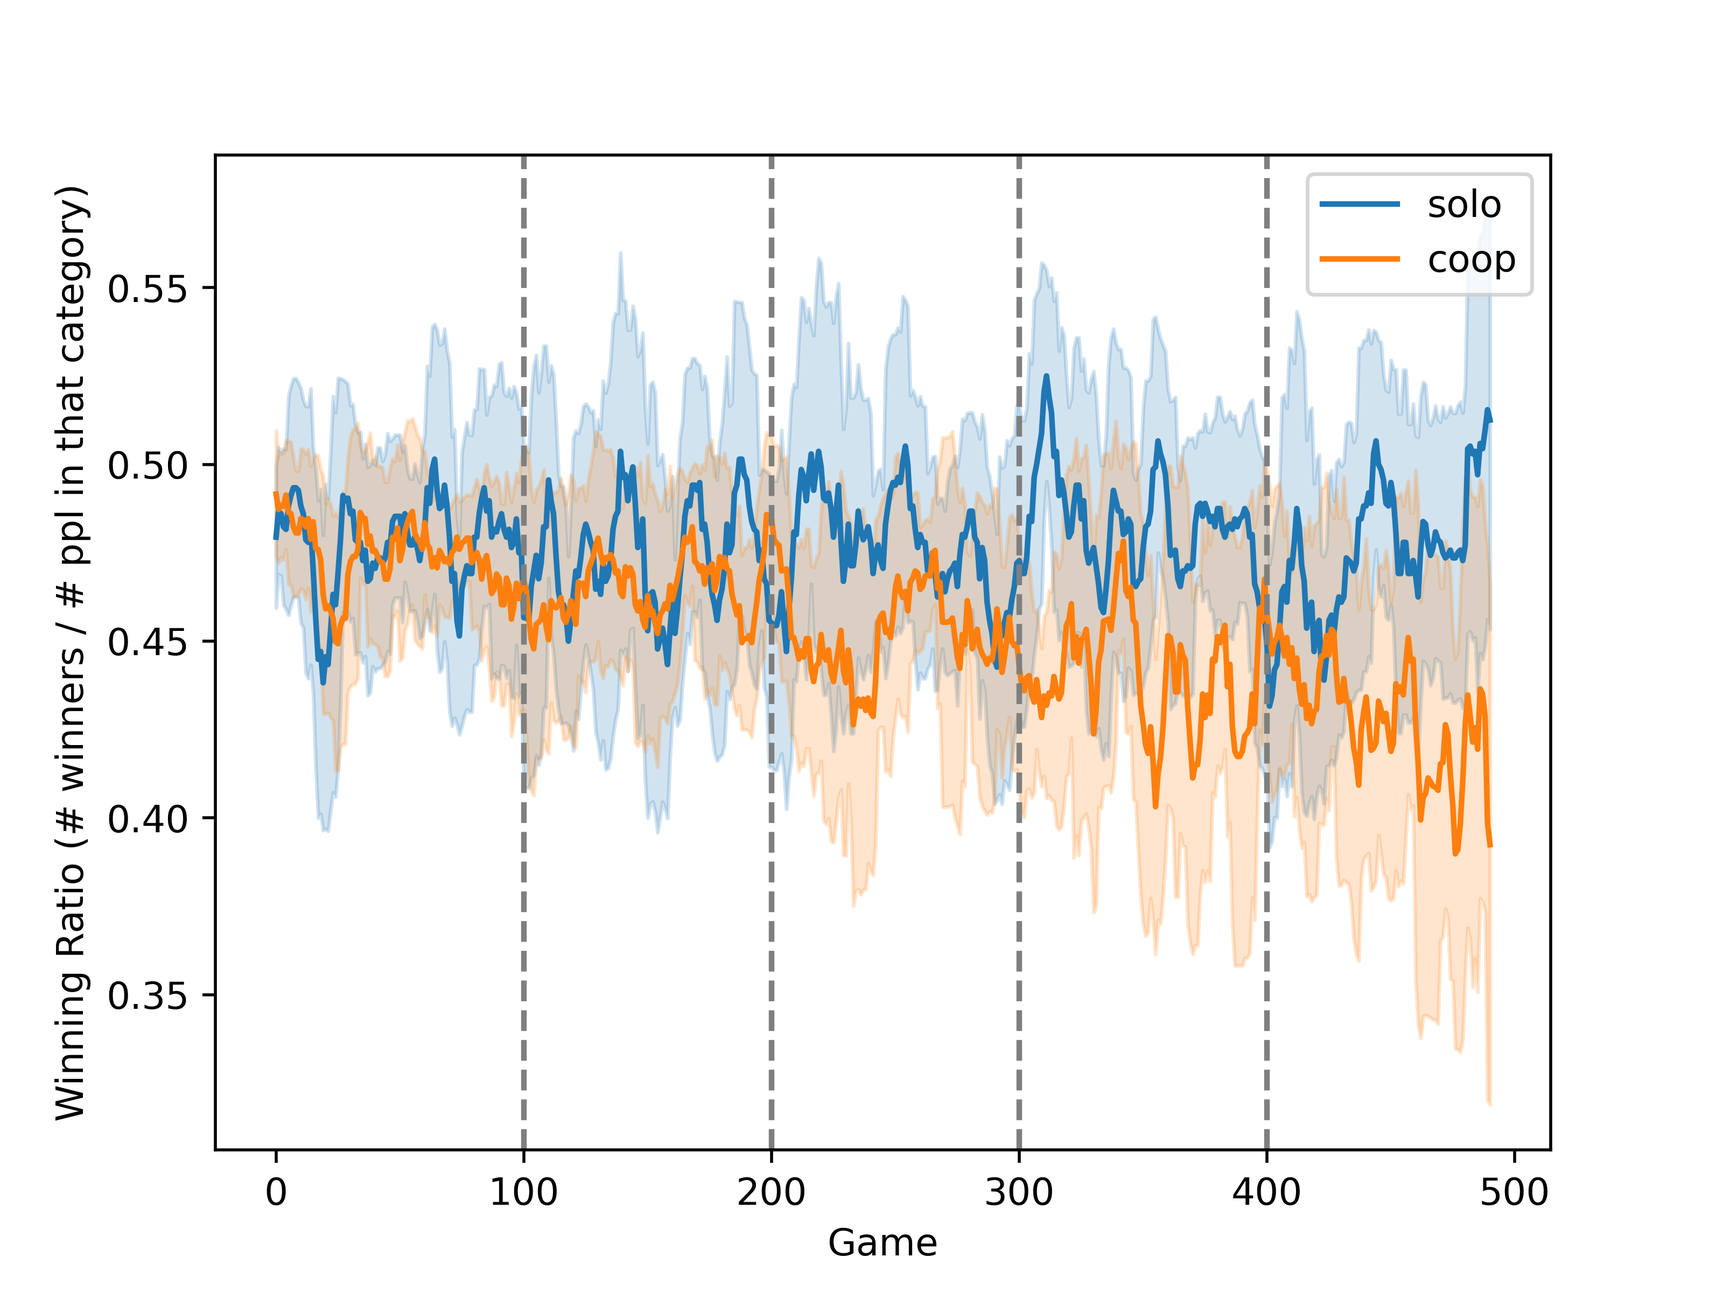
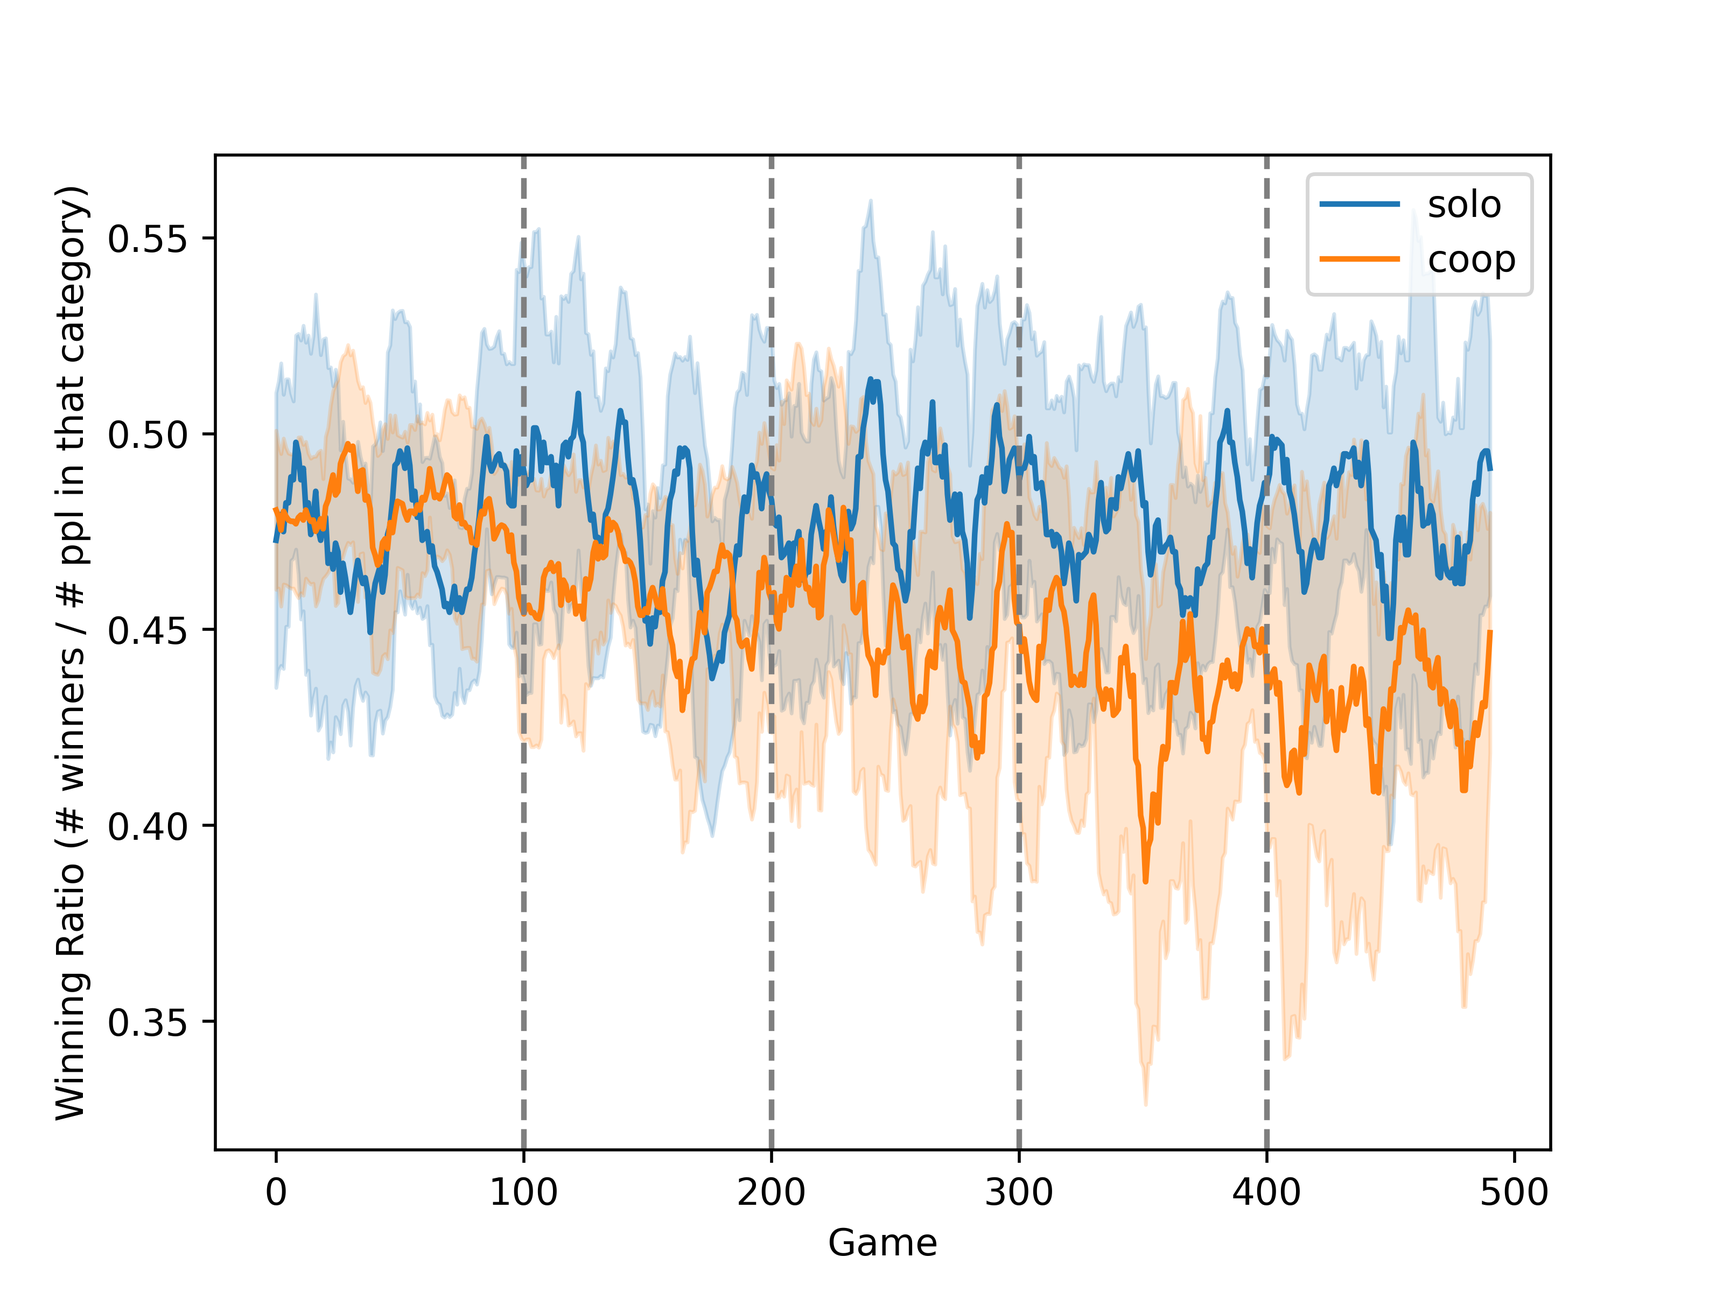
update network game 4

diff --git a/main.py b/main.py
@@ -3,18 +3,17 @@ from experiments import *
 
 def main():
     T = 500
-    N = 481
     # # 1) Varying Brain Size per Minority Games by Yeung and Zhang
     # print("Experiment 1:")
-    # game = vary_brain_size(T = T, N = N, brain_size = 8, num_strategies = 4, seed = 123)
-    # utils.plot_games_result(game, ylim_lower = 0, ylim_upper= N, fig_dir= 'figures/exp_1_game_result.png')
+    # game = vary_brain_size(T = T, N = 449, brain_size = 8, num_strategies = 4, seed = 123)
+    # utils.plot_games_result(game, ylim_lower = 0, ylim_upper= 449, fig_dir= 'figures/exp1_game_result.png')
 
     # # 2) Propagate All Strategies - Network Minority Game
     # print("Experiment 2:")
     # time_step = [i for i in range(T//5, T, T//5)]
-    # game = propagate_strategies_network(aggregate_mode = "all", T = T, N = N, brain_size = 8, num_strategies = 4, 
+    # game = propagate_strategies_network(aggregate_mode = "all", T = T, N = 449, brain_size = 8, num_strategies = 4, 
     #                     p = 0.0025, seed = 64, time_step = time_step, fig_dir= 'figures/exp2_network_plot.png')
-    # utils.plot_network_games_result(game, ylim_lower = 0, ylim_upper= N, fig_dir= 'figures/exp2_game_result.png')
+    # utils.plot_network_games_result(game, ylim_lower = 0, ylim_upper= 449, fig_dir= 'figures/exp2_game_result.png')
     # utils.plot_coop_solo(game, fig_dir='figures/exp2_winning_ratio.png')
 
     # # 3) Propagate All Strategies - Disconnected Minority Game (10 Groups)
@@ -25,26 +24,26 @@ def main():
     # time_step = [i for i in range(T//5, T, T//5)]
     # game = propagate_strategies_disconnected_network_10(aggregate_mode = "all", T = T, N = 451, brain_size = 8, num_strategies = 4, 
     #                     seed = 64, time_step = time_step, fig_dir= 'figures/exp3_network_plot.png')
-    # utils.plot_network_games_result(game, ylim_lower = 0, ylim_upper= N, fig_dir= 'figures/exp3_game_result.png')
+    # utils.plot_network_games_result(game, ylim_lower = 0, ylim_upper= 451, fig_dir= 'figures/exp3_game_result.png')
     # utils.plot_disconnected_groups_10(game, fig_dir='figures/exp3_winning_ratio.png')
 
-    # # 4) Propagate All Strategies - Disconnected Minority Game (5 Groups)
+    # # 4) Propagate All Strategies - Disconnected Minority Game (4 Groups)
     # # If the below code doesn't work, probability to create edges in Erdos-Renyi graph is low. 
     # # p = 0.5 guarantees to create a connected sub-graph, but the trade-off is runtime.
     # # Try to change seed, or increase p in Network.py
     # print("Experiment 4:")
     # time_step = [i for i in range(T//5, T, T//5)]
-    # game = propagate_strategies_disconnected_network_5(aggregate_mode = "all", T = T, N = 481, brain_size = 8, num_strategies = 4, 
+    # game = propagate_strategies_disconnected_network_4(aggregate_mode = "all", T = T, N = 449, brain_size = 8, num_strategies = 4, 
     #                     seed = 64, time_step = time_step, fig_dir= 'figures/exp4_network_plot.png')
-    # utils.plot_network_games_result(game, ylim_lower = 0, ylim_upper= N, fig_dir= 'figures/exp4_game_result.png')
+    # utils.plot_network_games_result(game, ylim_lower = 0, ylim_upper= 449, fig_dir= 'figures/exp4_game_result.png')
     # utils.plot_disconnected_groups_5(game, fig_dir='figures/exp4_winning_ratio.png')
 
     # # 5) Propagate Best Strategies - Network Minority Game
     # print("Experiment 5:")
     # time_step = [i for i in range(T//5, T, T//5)]
-    # game = propagate_strategies_network(aggregate_mode = "best", T = T, N = N, brain_size = 8, num_strategies = 4, 
-    #                     p = 0.005, seed = 64, time_step = time_step, fig_dir= 'figures/exp5_network_plot.png')
-    # utils.plot_network_games_result(game, ylim_lower = 0, ylim_upper= N, fig_dir= 'figures/exp5_game_result.png')
+    # game = propagate_strategies_network(aggregate_mode = "best", T = T, N = 449, brain_size = 8, num_strategies = 4, 
+    #                     p = 0.0025, seed = 64, time_step = time_step, fig_dir= 'figures/exp5_network_plot.png')
+    # utils.plot_network_games_result(game, ylim_lower = 0, ylim_upper= 449, fig_dir= 'figures/exp5_game_result.png')
     # utils.plot_coop_solo(game, fig_dir='figures/exp5_winning_ratio.png')
 
     # # 6) Propagate Best Strategies - Disconnected Minority Game (10 Groups)
@@ -55,60 +54,60 @@ def main():
     # time_step = [i for i in range(T//5, T, T//5)]
     # game = propagate_strategies_disconnected_network_10(aggregate_mode = "best", T = T, N = 451, brain_size = 8, num_strategies = 4, 
     #                     seed = 64, time_step = time_step, fig_dir= 'figures/exp6_network_plot.png')
-    # utils.plot_network_games_result(game, ylim_lower = 0, ylim_upper= N, fig_dir= 'figures/exp6_game_result.png')
+    # utils.plot_network_games_result(game, ylim_lower = 0, ylim_upper= 451, fig_dir= 'figures/exp6_game_result.png')
     # utils.plot_disconnected_groups_10(game, fig_dir= 'figures/exp6_winning_ratio.png')
 
-    # # 7) Propagate Best Strategies - Disconnected Minority Game (5 Groups)
+    # # 7) Propagate Best Strategies - Disconnected Minority Game (4 Groups)
     # # If the below code doesn't work, probability to create edges in Erdos-Renyi graph is low. 
     # # p = 0.5 guarantees to create a connected sub-graph, but the trade-off is runtime.
     # # Try to change seed, or increase p in Network.py
     # print("Experiment 7:")
     # time_step = [i for i in range(T//5, T, T//5)]
-    # game = propagate_strategies_disconnected_network_5(aggregate_mode = "best", T = T, N = 481, brain_size = 8, num_strategies = 4, 
+    # game = propagate_strategies_disconnected_network_4(aggregate_mode = "best", T = T, N = 449, brain_size = 8, num_strategies = 4, 
     #                     seed = 64, time_step = time_step, fig_dir= 'figures/exp7_network_plot.png')
-    # utils.plot_network_games_result(game, ylim_lower = 0, ylim_upper= N, fig_dir= 'figures/exp7_game_result.png')
+    # utils.plot_network_games_result(game, ylim_lower = 0, ylim_upper= 449, fig_dir= 'figures/exp7_game_result.png')
     # utils.plot_disconnected_groups_5(game, fig_dir= 'figures/exp7_winning_ratio.png')
 
     # 8) Propagate All Strategies 100 times - Network Minority Game
     print("Experiment 8:")
     time_step = [i for i in range(T//5, T, T//5)]
-    game, stats = propagate_strategies_network_100_times(aggregate_mode = "all", T = T, N = N, brain_size = 8, num_strategies = 4, 
+    game, stats = propagate_strategies_network_100_times(aggregate_mode = "all", T = T, N = 449, brain_size = 8, num_strategies = 4, 
                         p = 0.0025, seed = 64, time_step = time_step)
     utils.compute_statistics(stats, game.time_step, colors = {'solo': 'tab:blue', 'coop':'tab:orange'}, width_a = 4, width_b = 0.6, fig_dir= 'figures/exp8_boxplot.png')
 
     # 9) Propagate Best Strategies 100 times - Network Minority Game
     print("Experiment 9:")
     time_step = [i for i in range(T//5, T, T//5)]
-    game, stats = propagate_strategies_network_100_times(aggregate_mode = "best", T = T, N = N, brain_size = 8, num_strategies = 4, 
+    game, stats = propagate_strategies_network_100_times(aggregate_mode = "best", T = T, N = 449, brain_size = 8, num_strategies = 4, 
                         p = 0.0025, seed = 64, time_step = time_step)
     utils.compute_statistics(stats, game.time_step, colors = {'solo': 'tab:blue', 'coop':'tab:orange'}, width_a = 4, width_b = 0.6, fig_dir= 'figures/exp9_boxplot.png')
 
-    # 10) Propagate All Strategies 100 times - Disconnected Minority Game (10 Groups)
-    print("Experiment 10:")
-    time_step = [i for i in range(T//5, T, T//5)]
-    game, stats = propagate_strategies_disconnected_network_10_100_times(aggregate_mode = "all", T = T, N = 451, brain_size = 8, num_strategies = 4, 
-                        seed = 64, time_step = time_step)
-    utils.compute_statistics(stats, game.time_step, colors = game.colors, width_a = 6, width_b = 0.5, fig_dir= 'figures/exp10_boxplot.png')
+    # # 10) Propagate All Strategies 100 times - Disconnected Minority Game (10 Groups)
+    # print("Experiment 10:")
+    # time_step = [i for i in range(T//5, T, T//5)]
+    # game, stats = propagate_strategies_disconnected_network_10_100_times(aggregate_mode = "all", T = T, N = 451, brain_size = 8, num_strategies = 4, 
+    #                     seed = 64, time_step = time_step)
+    # utils.compute_statistics(stats, game.time_step, colors = game.colors, width_a = 6, width_b = 0.5, fig_dir= 'figures/exp10_boxplot.png')
 
-    # 11) Propagate Best Strategies 100 times - Disconnected Minority Game (10 Groups)
-    print("Experiment 11:")
-    time_step = [i for i in range(T//5, T, T//5)]
-    game, stats = propagate_strategies_disconnected_network_10_100_times(aggregate_mode = "best", T = T, N = 451, brain_size = 8, num_strategies = 4, 
-                        seed = 64, time_step = time_step)
-    utils.compute_statistics(stats, game.time_step, colors = game.colors, width_a = 6, width_b = 0.5, fig_dir= 'figures/exp11_boxplot.png')
+    # # 11) Propagate Best Strategies 100 times - Disconnected Minority Game (10 Groups)
+    # print("Experiment 11:")
+    # time_step = [i for i in range(T//5, T, T//5)]
+    # game, stats = propagate_strategies_disconnected_network_10_100_times(aggregate_mode = "best", T = T, N = 451, brain_size = 8, num_strategies = 4, 
+    #                     seed = 64, time_step = time_step)
+    # utils.compute_statistics(stats, game.time_step, colors = game.colors, width_a = 6, width_b = 0.5, fig_dir= 'figures/exp11_boxplot.png')
 
-    # 12) Propagate All Strategies 100 times - Disconnected Minority Game (10 Groups)
-    print("Experiment 12:")
-    time_step = [i for i in range(T//5, T, T//5)]
-    game, stats = propagate_strategies_disconnected_network_5_100_times(aggregate_mode = "all", T = T, N = 481, brain_size = 8, num_strategies = 4, 
-                        seed = 64, time_step = time_step)
-    utils.compute_statistics(stats, game.time_step, colors = game.colors, width_a = 6, width_b = 0.5, fig_dir= 'figures/exp12_boxplot.png')
+    # # 12) Propagate All Strategies 100 times - Disconnected Minority Game (10 Groups)
+    # print("Experiment 12:")
+    # time_step = [i for i in range(T//5, T, T//5)]
+    # game, stats = propagate_strategies_disconnected_network_4_100_times(aggregate_mode = "all", T = T, N = 449, brain_size = 8, num_strategies = 4, 
+    #                     seed = 64, time_step = time_step)
+    # utils.compute_statistics(stats, game.time_step, colors = game.colors, width_a = 6, width_b = 0.5, fig_dir= 'figures/exp12_boxplot.png')
 
-    # 13) Propagate Best Strategies 100 times - Disconnected Minority Game (10 Groups)
-    print("Experiment 13:")
-    time_step = [i for i in range(T//5, T, T//5)]
-    game, stats = propagate_strategies_disconnected_network_5_100_times(aggregate_mode = "best", T = T, N = 481, brain_size = 8, num_strategies = 4, 
-                        seed = 64, time_step = time_step)
-    utils.compute_statistics(stats, game.time_step, colors = game.colors, width_a = 6, width_b = 0.5, fig_dir= 'figures/exp13_boxplot.png')
+    # # 13) Propagate Best Strategies 100 times - Disconnected Minority Game (10 Groups)
+    # print("Experiment 13:")
+    # time_step = [i for i in range(T//5, T, T//5)]
+    # game, stats = propagate_strategies_disconnected_network_4_100_times(aggregate_mode = "best", T = T, N = 449, brain_size = 8, num_strategies = 4, 
+    #                     seed = 64, time_step = time_step)
+    # utils.compute_statistics(stats, game.time_step, colors = game.colors, width_a = 6, width_b = 0.5, fig_dir= 'figures/exp13_boxplot.png')
 if __name__ == "__main__":
     main()

diff --git a/experiments.py b/experiments.py
@@ -1,6 +1,6 @@
 import numpy as np
 
-from Games import Traditional_Minority_Game, Network_Minority_Game, Disconnected_Network_Minority_Game_10, Disconnected_Network_Minority_Game_5
+from Games import Traditional_Minority_Game, Network_Minority_Game, Disconnected_Network_Minority_Game_10, Disconnected_Network_Minority_Game_4
 from Agent import Agent
 
 from typing import List
@@ -40,12 +40,12 @@ def propagate_strategies_disconnected_network_10(aggregate_mode: str, T: int, N:
     game.start()
     return game
 
-def propagate_strategies_disconnected_network_5(aggregate_mode: str, T: int, N: int, brain_size: int, num_strategies: int, seed: int, time_step : List[int], fig_dir = None):
+def propagate_strategies_disconnected_network_4(aggregate_mode: str, T: int, N: int, brain_size: int, num_strategies: int, seed: int, time_step : List[int], fig_dir = None):
     np.random.seed(seed)
     agents = [Agent(i, past_decisions= None, brain_size = brain_size, num_strategies= num_strategies, aggregate_mode= aggregate_mode) for i in range(N)]
     past_games = np.binary_repr(np.random.randint(0, 2**8), width = 8)         # Assume there is already 8 games played in the past
 
-    game = Disconnected_Network_Minority_Game_5(T, N, agents, past_games = past_games, 
+    game = Disconnected_Network_Minority_Game_4(T, N, agents, past_games = past_games, 
                                 threshold = 0.5,
                                 time_step = time_step,
                                 time_limit= None, seed = seed)
@@ -130,12 +130,11 @@ def propagate_strategies_disconnected_network_10_100_times(aggregate_mode: str, 
             stats[90][i].append(np.mean(game.num_winner_by_group[90][time_step[i]-5:time_step[i]+5])/90)
     return game, stats
 
-def propagate_strategies_disconnected_network_5_100_times(aggregate_mode: str, T: int, N: int, brain_size: int, num_strategies: int, seed: int, time_step : List[int], fig_dir = None):
+def propagate_strategies_disconnected_network_4_100_times(aggregate_mode: str, T: int, N: int, brain_size: int, num_strategies: int, seed: int, time_step : List[int], fig_dir = None):
     np.random.seed(seed)
 
     stats = {
         1: [],
-        32: [],
         64: [],
         128: [],
         256: []
@@ -143,7 +142,6 @@ def propagate_strategies_disconnected_network_5_100_times(aggregate_mode: str, T
 
     for t in time_step:
         stats[1].append([])
-        stats[32].append([])
         stats[64].append([])
         stats[128].append([])
         stats[256].append([])
@@ -152,14 +150,13 @@ def propagate_strategies_disconnected_network_5_100_times(aggregate_mode: str, T
         agents = [Agent(i, past_decisions= None, brain_size = brain_size, num_strategies= num_strategies, aggregate_mode= aggregate_mode) for i in range(N)]
         past_games = np.binary_repr(np.random.randint(0, 2**8), width = 8)         # Assume there is already 8 games played in the past
 
-        game = Disconnected_Network_Minority_Game_5(T, N, agents, past_games = past_games, 
+        game = Disconnected_Network_Minority_Game_4(T, N, agents, past_games = past_games, 
                                     threshold = 0.5,
                                     time_step = time_step,
                                     time_limit= None, seed = seed)
         game.start()
         for i in range(len(time_step)):
             stats[1][i].append(np.mean(game.num_winner_by_group[1][time_step[i]-5:time_step[i]+5])/1)
-            stats[32][i].append(np.mean(game.num_winner_by_group[32][time_step[i]-5:time_step[i]+5])/32)
             stats[64][i].append(np.mean(game.num_winner_by_group[64][time_step[i]-5:time_step[i]+5])/64)
             stats[128][i].append(np.mean(game.num_winner_by_group[128][time_step[i]-5:time_step[i]+5])/128)
             stats[256][i].append(np.mean(game.num_winner_by_group[256][time_step[i]-5:time_step[i]+5])/256)

diff --git a/utils.py b/utils.py
@@ -2,7 +2,7 @@ from time import time
 import numpy as np
 import matplotlib.pyplot as plt
 
-from Games import Traditional_Minority_Game, Network_Minority_Game, Disconnected_Network_Minority_Game_10, Disconnected_Network_Minority_Game_5
+from Games import Traditional_Minority_Game, Network_Minority_Game, Disconnected_Network_Minority_Game_10, Disconnected_Network_Minority_Game_4
 
 def plot_games_result(game: Traditional_Minority_Game, ylim_lower: int, ylim_upper: int, fig_dir = None):
     final_results = game.final_results
@@ -30,7 +30,7 @@ def plot_games_result(game: Traditional_Minority_Game, ylim_lower: int, ylim_upp
         plt.show()
     plt.close(fig)
 
-def plot_network_games_result(game: Network_Minority_Game or Disconnected_Network_Minority_Game_10 or Disconnected_Network_Minority_Game_5, ylim_lower: int, ylim_upper: int, fig_dir = None):
+def plot_network_games_result(game: Network_Minority_Game or Disconnected_Network_Minority_Game_10 or Disconnected_Network_Minority_Game_4, ylim_lower: int, ylim_upper: int, fig_dir = None):
     final_results = game.final_results
     total_agent = game.N
 
@@ -182,12 +182,11 @@ def plot_disconnected_groups_10(game: Disconnected_Network_Minority_Game_10, fig
         plt.show()
     plt.close(fig)
 
-def plot_disconnected_groups_5(game: Disconnected_Network_Minority_Game_5, fig_dir = None):
+def plot_disconnected_groups_5(game: Disconnected_Network_Minority_Game_4, fig_dir = None):
     game_index = []
 
     winner_ratio = {
         1: [],
-        32: [],
         64: [],
         128: [],
         256: [],
@@ -195,7 +194,6 @@ def plot_disconnected_groups_5(game: Disconnected_Network_Minority_Game_5, fig_d
 
     windows = {
         1: [],
-        32: [],
         64: [],
         128: [],
         256: [],
@@ -203,7 +201,6 @@ def plot_disconnected_groups_5(game: Disconnected_Network_Minority_Game_5, fig_d
 
     rolling_avg = {
         1: [],
-        32: [],
         64: [],
         128: [],
         256: [],
@@ -211,7 +208,6 @@ def plot_disconnected_groups_5(game: Disconnected_Network_Minority_Game_5, fig_d
 
     rolling_std = {
         1: [],
-        32: [],
         64: [],
         128: [],
         256: [],

diff --git a/Games.py b/Games.py
@@ -2,7 +2,7 @@ import numpy as np
 import networkx as nx
 
 from Agent import Agent
-from Network import Network, Disconnected_Network_10, Disconnected_Network_5
+from Network import Network, Disconnected_Network_10, Disconnected_Network_4
 from Aggregation import aggregate_all_neighbor_strategies, aggregate_best_neighbor_strategies
 
 from typing import List, Tuple
@@ -221,13 +221,12 @@ class Disconnected_Network_Minority_Game_10(Traditional_Minority_Game):
                 agent.aggregated_virtual_point = None
 
 
-class Disconnected_Network_Minority_Game_5(Traditional_Minority_Game):
+class Disconnected_Network_Minority_Game_4(Traditional_Minority_Game):
     def __init__(self, T: int, N: int, agents: List[Agent], past_games: str, threshold: int, time_step: List[int], time_limit = None, seed = 123):
         super().__init__(T, N, agents, past_games, threshold, time_limit)
-        self.network = Disconnected_Network_5(self.agents, seed)
+        self.network = Disconnected_Network_4(self.agents, seed)
         self.num_winner_by_group = {
             1: [],
-            32: [],
             64: [],
             128: [],
             256: [],
@@ -236,10 +235,9 @@ class Disconnected_Network_Minority_Game_5(Traditional_Minority_Game):
 
         self.colors = {
             1: "tab:blue",
-            32: "tab:orange",
-            64: "tab:green",
-            128: "tab:red",
-            256: "tab:purple",
+            64: "tab:orange",
+            128: "tab:green",
+            256: "tab:red",
         }
 
         self.update_network()
@@ -256,7 +254,6 @@ class Disconnected_Network_Minority_Game_5(Traditional_Minority_Game):
         # as well as propagate strategies
         num_winner_by_group = {
             1: 0,
-            32: 0,
             64: 0,
             128: 0,
             256: 0,

diff --git a/Network.py b/Network.py
@@ -50,16 +50,15 @@ class Disconnected_Network_10(Network):
             plt.show()
         plt.close()
 
-class Disconnected_Network_5(Network):
+class Disconnected_Network_4(Network):
     def __init__(self, agents: List[Agent], seed: int):
         super().__init__(agents, 0.5, seed)
         self.G = nx.Graph()
         self.G.add_node(1)
-        for i in [32, 64, 128, 256]:
-            if (i == 32):   p = 0.15
-            elif (i == 64): p = 0.1
-            elif (i == 128): p = 0.04
-            else: p = 0.02
+        for i in [64, 128, 256]:
+            if (i == 64): p = 0.1
+            elif (i == 128): p = 0.035
+            else: p = 0.019
             g = (nx.generators.erdos_renyi_graph(i, p, seed))           # actually p = 0.5 is the minimum bound to guarantee to have a connected graph of N nodes.
             self.G = nx.union(self.G, g, rename=('A', 'B'))             # If p doesn't work, try to increase p. The trade-off is longer runtime.
         self.G = nx.convert_node_labels_to_integers(self.G)
